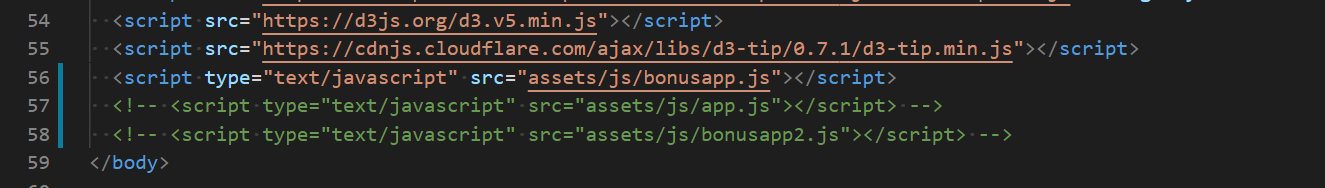
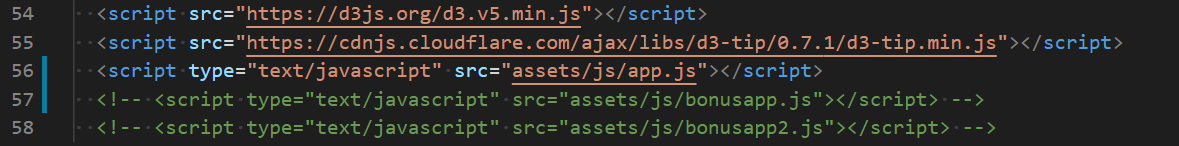
Update for ReadMe file usage
Update to include ReadMe file images .  Update code to set initial page values to app.js (static scatterplot)

diff --git a/index.html b/index.html
@@ -53,8 +53,8 @@
   <script src="https://stackpath.bootstrapcdn.com/bootstrap/4.1.3/js/bootstrap.min.js" integrity="sha384-ChfqqxuZUCnJSK3+MXmPNIyE6ZbWh2IMqE241rYiqJxyMiZ6OW/JmZQ5stwEULTy" crossorigin="anonymous"></script>
   <script src="https://d3js.org/d3.v5.min.js"></script>
   <script src="https://cdnjs.cloudflare.com/ajax/libs/d3-tip/0.7.1/d3-tip.min.js"></script>
-  <script type="text/javascript" src="assets/js/bonusapp.js"></script>
-  <!-- <script type="text/javascript" src="assets/js/app.js"></script> -->
+  <script type="text/javascript" src="assets/js/app.js"></script>
+  <!-- <script type="text/javascript" src="assets/js/bonusapp.js"></script> -->
   <!-- <script type="text/javascript" src="assets/js/bonusapp2.js"></script> -->
 </body>
 
